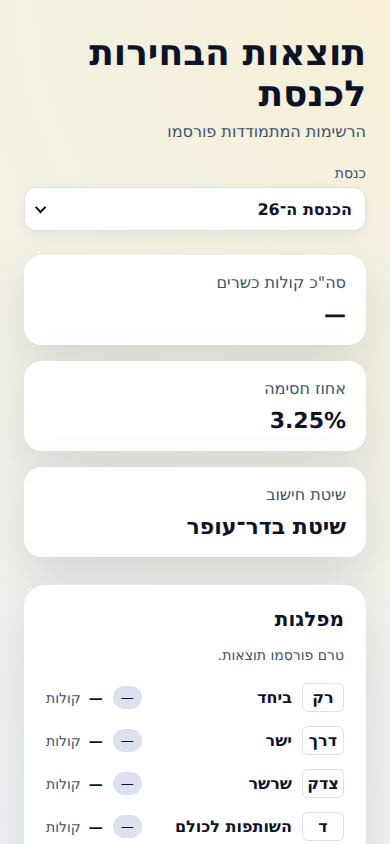
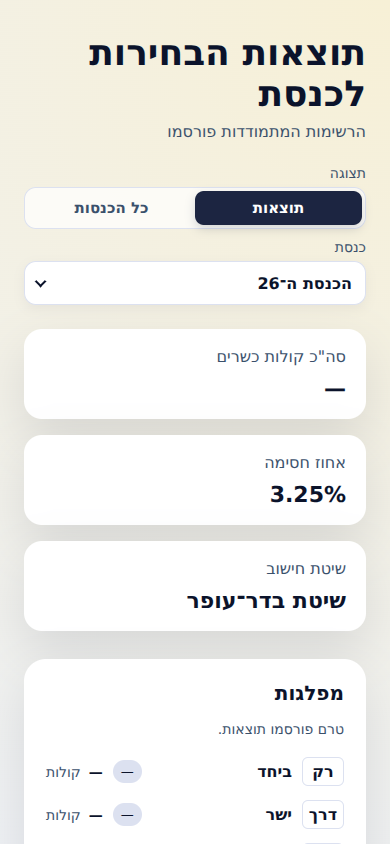
Refresh previews with upcoming election view switcher

Changed region(s): [[0.0615, 0.1848, 0.9538, 1.0], [0.1231, 0.8626, 0.2154, 0.9858]]

diff --git a/elections-client/src/components/AppHeader.tsx b/elections-client/src/components/AppHeader.tsx
@@ -4,7 +4,7 @@ import ElectionSelector from './ElectionSelector';
 
 interface AppHeaderProps {
   statusText: string;
-  showViewControl: boolean;
+  showSimulator: boolean;
   isEdited: boolean;
   currentElection: string | null;
   setCurrentElection: (id: string) => void;
@@ -21,7 +21,7 @@ const VIEW_OPTIONS: { value: AppViewMode; label: string }[] = [
 
 const AppHeader: React.FC<AppHeaderProps> = ({
   statusText,
-  showViewControl,
+  showSimulator,
   isEdited,
   currentElection,
   setCurrentElection,
@@ -38,29 +38,29 @@ const AppHeader: React.FC<AppHeaderProps> = ({
       </div>
     </div>
     <div className="controls">
-      {showViewControl && (
-        <div className="view-control">
-          <span>תצוגה</span>
-          <div className="view-switcher" role="group" aria-label="בחירת תצוגה">
-            {VIEW_OPTIONS.map((option) => (
-              <button
-                key={option.value}
-                type="button"
-                className={viewMode === option.value ? 'is-active' : ''}
-                aria-pressed={viewMode === option.value}
-                onClick={() => setViewMode(option.value)}
-              >
-                {option.label}
-              </button>
-            ))}
-          </div>
+      <div className="view-control">
+        <span>תצוגה</span>
+        <div className="view-switcher" role="group" aria-label="בחירת תצוגה">
+          {VIEW_OPTIONS
+            .filter((option) => showSimulator || option.value !== 'simulator')
+            .map((option) => (
+            <button
+              key={option.value}
+              type="button"
+              className={viewMode === option.value ? 'is-active' : ''}
+              aria-pressed={viewMode === option.value}
+              onClick={() => setViewMode(option.value)}
+            >
+              {option.label}
+            </button>
+          ))}
         </div>
-      )}
+      </div>
       <ElectionSelector
         value={currentElection}
         elections={availableElections}
         onChange={setCurrentElection}
-        disabled={showViewControl && viewMode === 'summary'}
+        disabled={viewMode === 'summary'}
       />
     </div>
   </header>

diff --git a/elections-client/src/App.tsx b/elections-client/src/App.tsx
@@ -111,18 +111,22 @@ export default function App() {
       <div className="screen">
         <AppHeader
           statusText={statusText}
-          showViewControl={false}
+          showSimulator={false}
           isEdited={false}
           currentElection={currentElection}
           setCurrentElection={setCurrentElection}
           availableElections={availableElections}
-          viewMode={viewMode}
+          viewMode={viewMode === 'simulator' ? 'results' : viewMode}
           setViewMode={setViewMode}
         />
-        <PreElectionView
-          manifest={electionManifest}
-          electionConfig={electionConfig}
-        />
+        {viewMode === 'summary' ? (
+          <AllElectionsSummary />
+        ) : (
+          <PreElectionView
+            manifest={electionManifest}
+            electionConfig={electionConfig}
+          />
+        )}
       </div>
     );
   }
@@ -257,7 +261,7 @@ export default function App() {
     <div className="screen">
       <AppHeader
         statusText={statusText}
-        showViewControl
+        showSimulator
         isEdited={displayedIsEdited}
         currentElection={currentElection}
         setCurrentElection={setCurrentElection}
